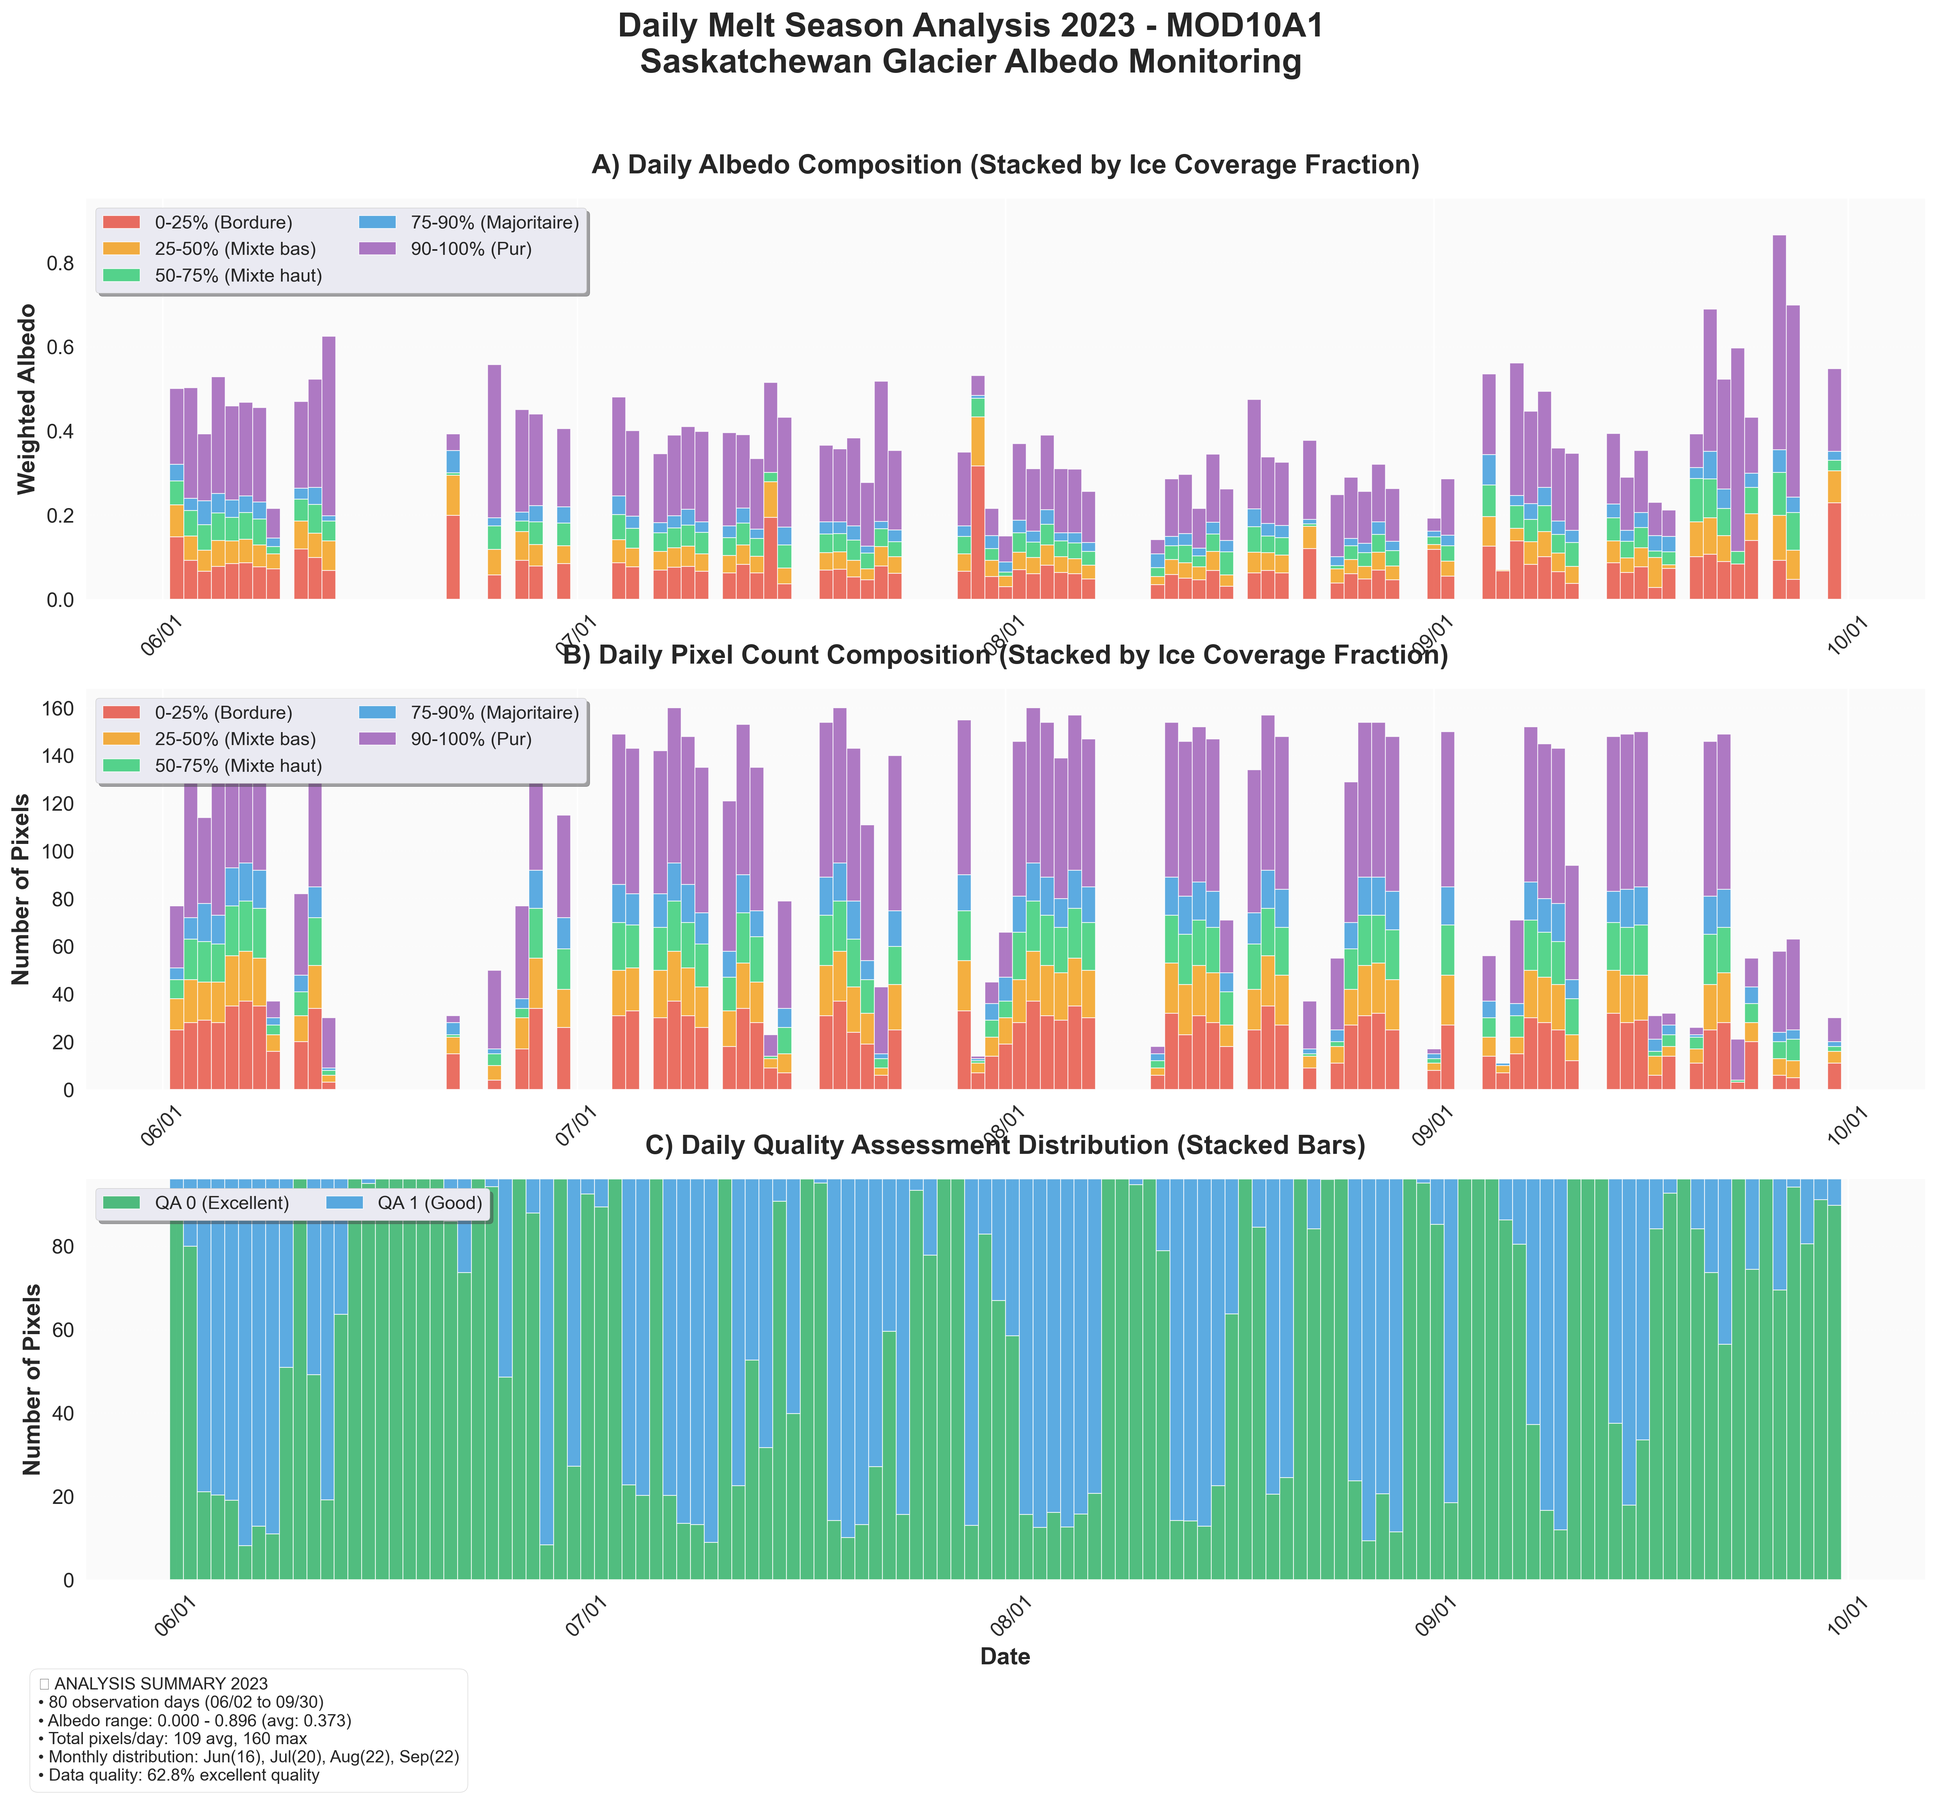
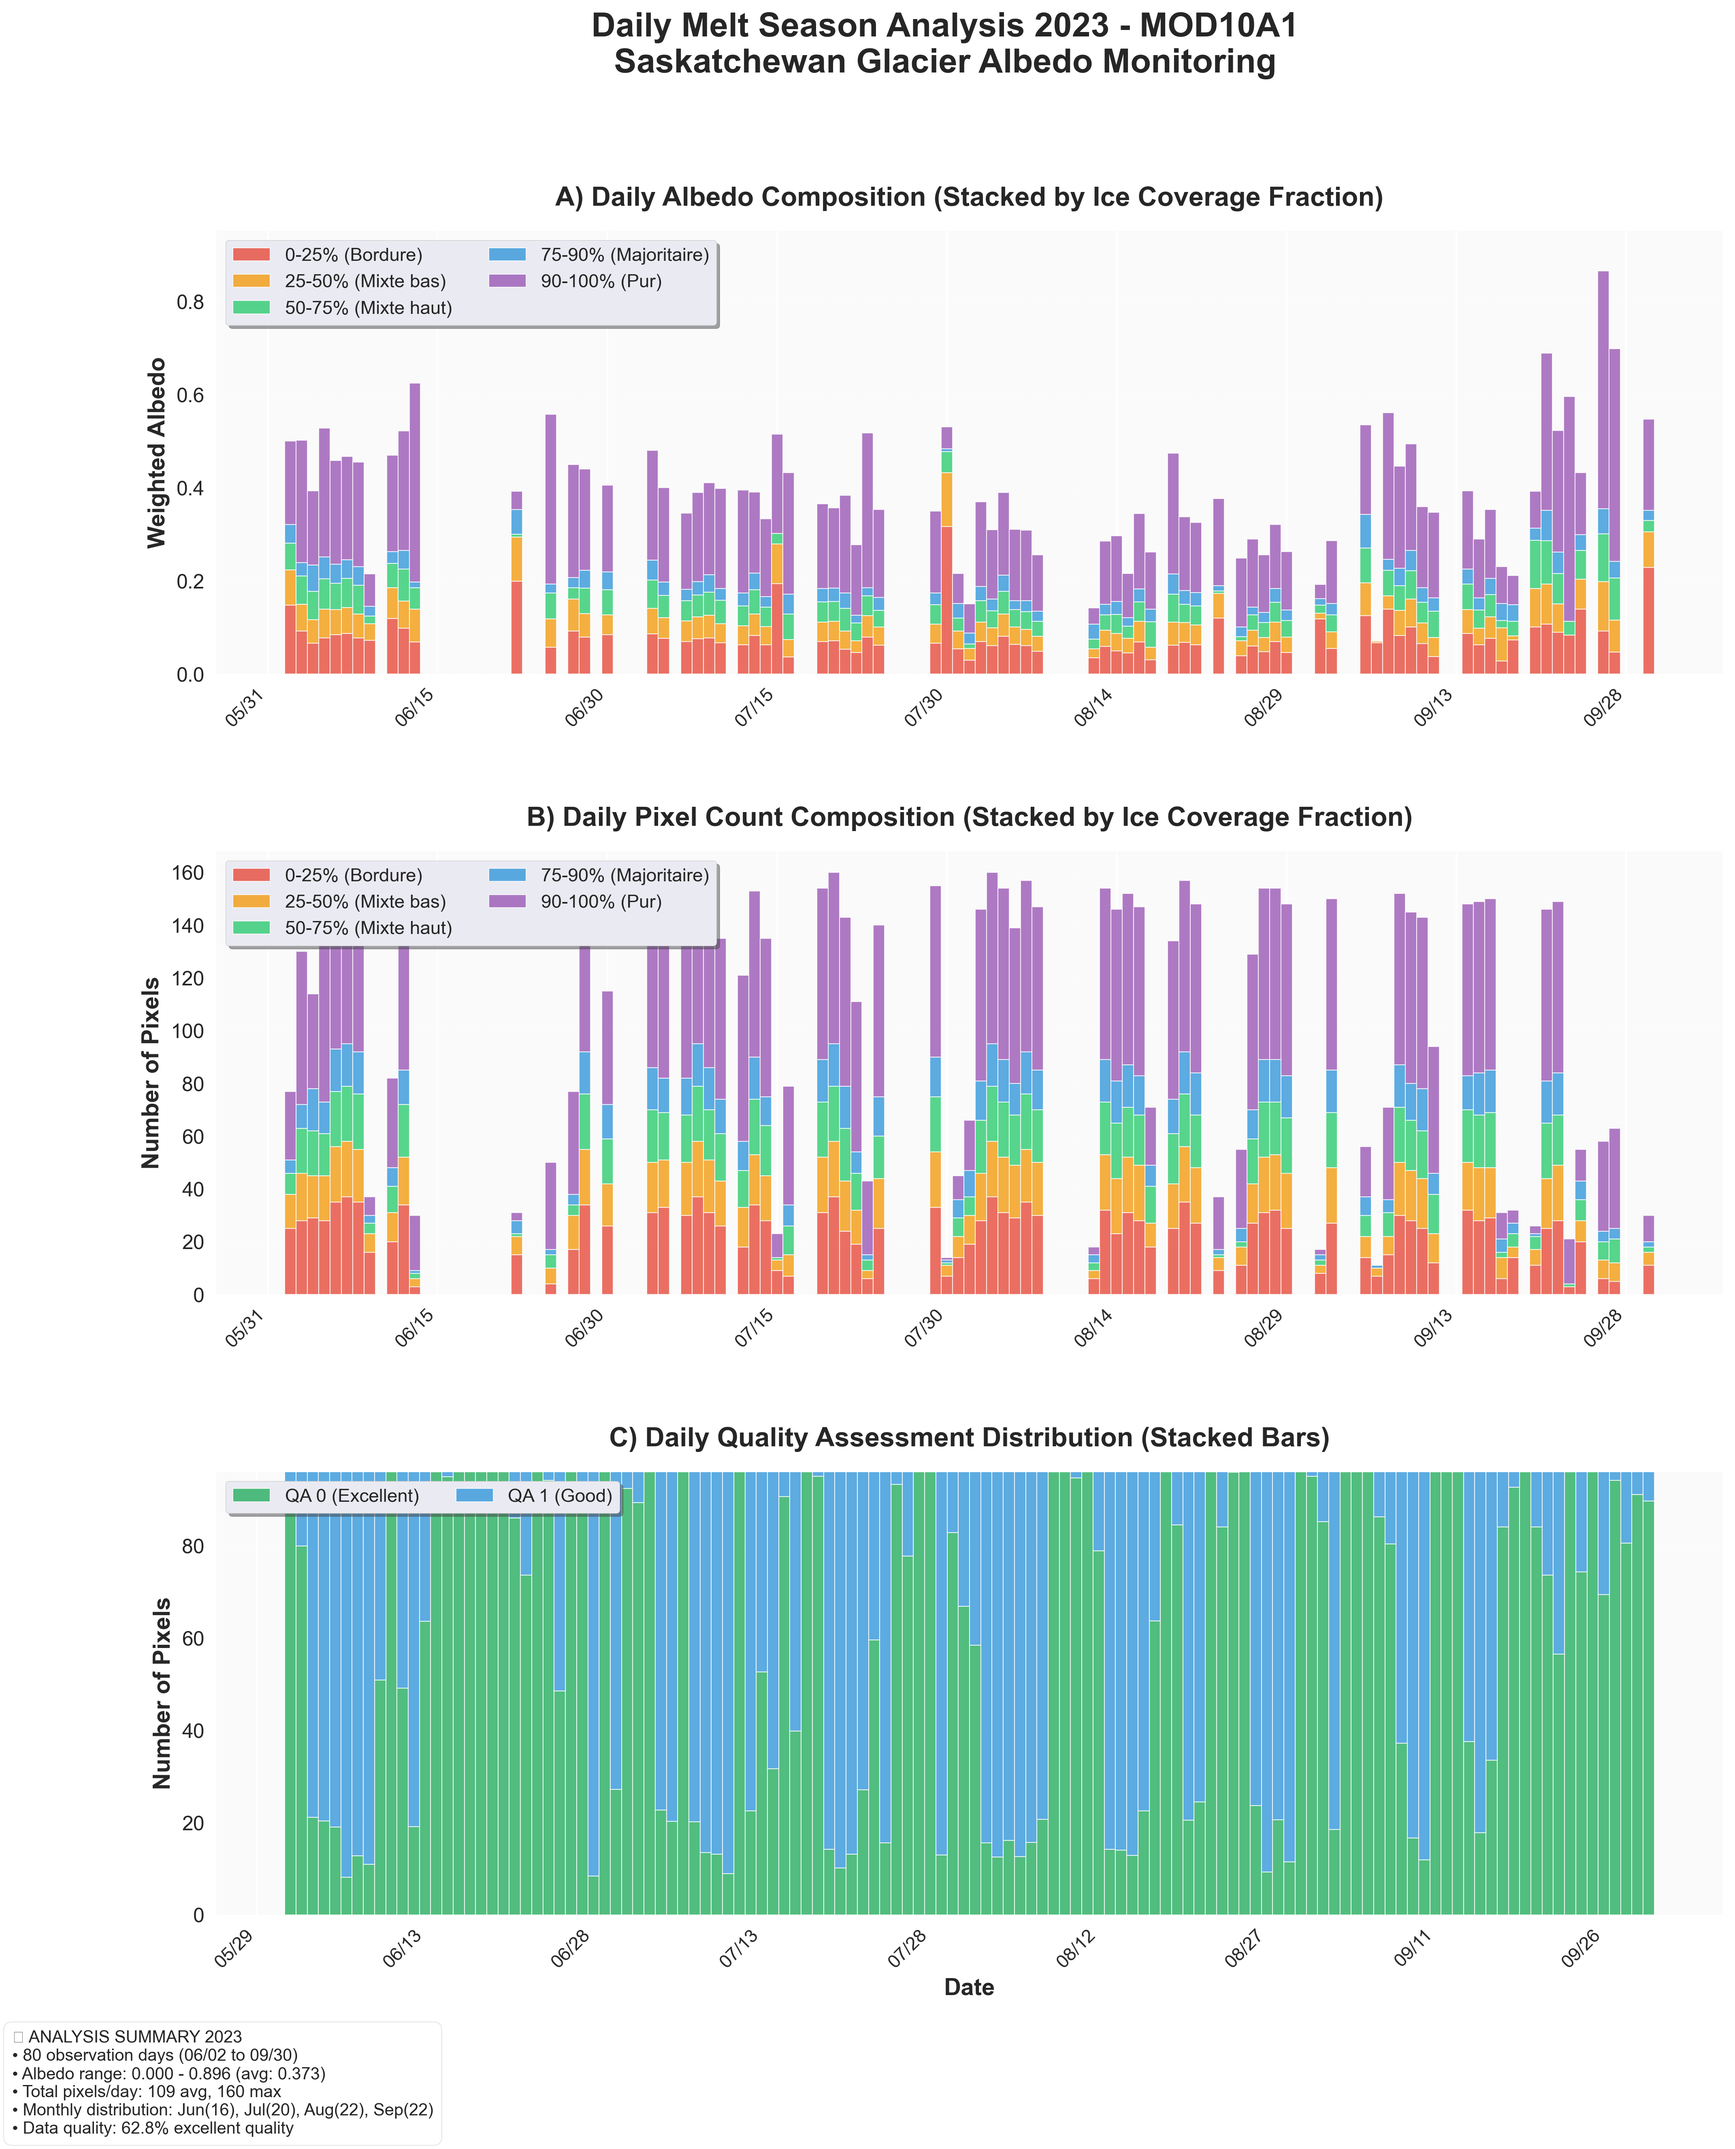
Change date axis to weekly intervals for better granularity
- Replace 15-day intervals with weekly intervals (every 7 days)
- Use WeekdayLocator(interval=1) for major ticks every week
- Add minor ticks every 3 days for finer detail
- Maintain 45° rotation and right alignment for readability
- Provides optimal balance between detail and clarity for melt season analysis

🤖 Generated with [Claude Code](https://claude.ai/code)

diff --git a/src/saskatchewan_albedo/visualization/pixel_plots.py b/src/saskatchewan_albedo/visualization/pixel_plots.py
@@ -710,13 +710,13 @@ class PixelVisualizer:
         # Adjust layout with proper spacing for vertical stack
         plt.tight_layout(rect=[0.0, 0.08, 1.0, 0.96])
         
-        # Apply consistent date formatting to all x-axes with more frequent dates
+        # Apply consistent date formatting to all x-axes with weekly intervals
         import matplotlib.dates as mdates
         for ax in axes:
-            # Plus de dates sur l'axe X - tous les 15 jours
+            # Dates par semaine (tous les 7 jours)
             ax.xaxis.set_major_formatter(mdates.DateFormatter('%m/%d'))
-            ax.xaxis.set_major_locator(mdates.DayLocator(interval=15))  # Tous les 15 jours
-            ax.xaxis.set_minor_locator(mdates.DayLocator(interval=7))   # Marques mineures tous les 7 jours
+            ax.xaxis.set_major_locator(mdates.WeekdayLocator(interval=1))  # Toutes les semaines
+            ax.xaxis.set_minor_locator(mdates.DayLocator(interval=3))      # Marques mineures tous les 3 jours
             ax.tick_params(axis='x', rotation=45, labelsize=11)
             ax.tick_params(axis='y', labelsize=12)
             # Améliorer l'espacement des étiquettes
